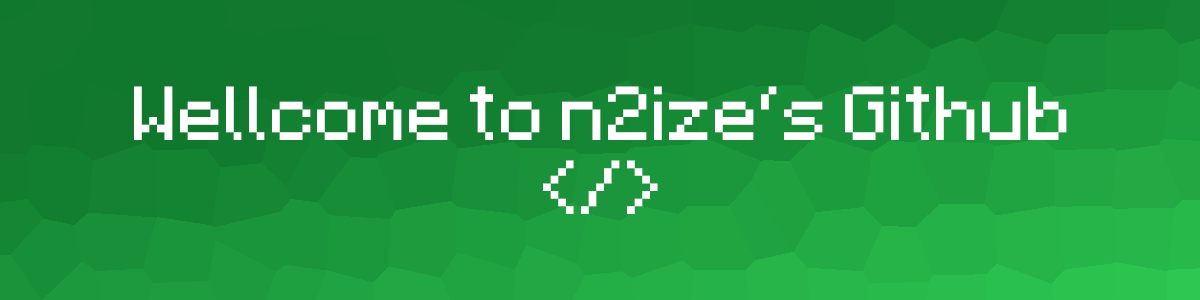
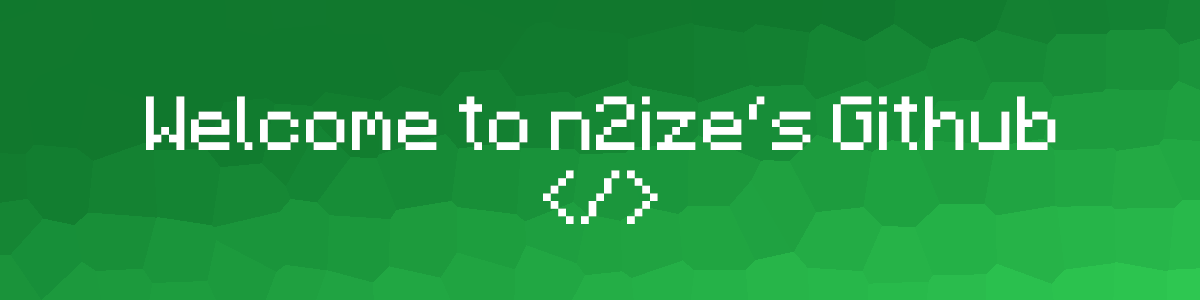
minor design changes

Changed region(s): [[0.0925, 0.27, 0.8942, 0.51], [0.4317, 0.54, 0.555, 0.75]]

diff --git a/README.md b/README.md
@@ -2,18 +2,12 @@
 
 <!-- ═══════════ BANNER (Platzhalter – in build_readme.py bei BANNER_URL ersetzen) ═══════════ -->
 <div align="center">
-  <img src="https://placehold.co/1200x300/0d1117/168A36/png?text=YOUR+BANNER+HERE" alt="n2ize banner" width="100%" />
+  <img src="assets/githubbanner.png" alt="n2ize banner" width="100%" />
 </div>
-
+<img src="https://capsule-render.vercel.app/api?type=rect&color=168A36&height=3" width="100%" alt="" />
 <div align="center">
 
 <img src="https://readme-typing-svg.demolab.com?font=Fira+Code&weight=800&size=36&duration=2500&pause=1000&color=168A36&center=true&vCenter=true&repeat=false&width=600&height=70&lines=Hi,+I'm+n2ize+%F0%9F%91%8B" alt="Hi, I'm n2ize 👋" />
-
-<em>Student from Switzerland 🇨🇭 · Builder · Lifelong learner</em>
-
-<img src="https://readme-typing-svg.demolab.com?font=Fira+Code&size=15&duration=3000&pause=1200&color=8B949E&center=true&vCenter=true&width=520&height=30&lines=Building+a+videogame+in+Godot+%F0%9F%90%B8;Preparing+for+my+finals+%F0%9F%8E%93;Learning+something+new+every+day+%F0%9F%8C%B1" alt="Currently: building, studying, learning" />
-
-I'm 18 years old, currently preparing for my finals, and I enjoy building projects and learning new technologies.
 
 </div>
 
@@ -56,7 +50,7 @@ I'm 18 years old, currently preparing for my finals, and I enjoy building projec
   </tr>
 </table>
 
-<h3>📫 <img src="https://img.shields.io/badge/CONTACT_ME-168A36?style=for-the-badge" alt="Contact me" /></h3>
+<h3><img src="https://img.shields.io/badge/CONTACT_ME-168A36?style=for-the-badge" alt="Contact me" /></h3>
 
 <p align="left">
   <img src="https://img.shields.io/badge/Discord-2nize-168A36?style=for-the-badge&logo=discord&logoColor=white" alt="Discord: 2nize" />
